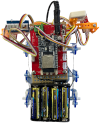
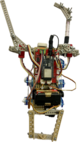
中心点追加

diff --git a/visualizer/takamiya_test.rb b/visualizer/takamiya_test.rb
@@ -27,7 +27,15 @@ class Player
     @x_speed = 0
     @y_speed = 0
     @target = nil
-    @image = Gosu::Image.new("images/kani.png", tileable: false)
+    @image1 = Gosu::Image.new("images/kani.png", tileable: false)
+    @image2 = Gosu::Image.new("images/kani2.png", tileable: false)
+  end
+
+  def center
+    #画像を2枚にしたタイミングでif文つける
+    cx = (@image1.width / 2)
+    cy = (@image1.height / 2)
+    [cx, cy]
   end
 
   def move_to(checkpoint, duration)
@@ -43,9 +51,12 @@ class Player
     @x += @x_speed
     @y += @y_speed
 
+    @cx, @cy = center
+
     # 目的地に到達したかチェック（厳密比較ではなく誤差を許容）
     if (@x - @target[0]).abs < 1 && (@y - @target[1]).abs < 1
       @x, @y = @target
+      @cx, @cy = center
       @x_speed = 0
       @y_speed = 0
       @target = nil
@@ -53,7 +64,7 @@ class Player
   end
 
   def draw
-    @image.draw(@x - 50, @y - 62, 1)
+    @image1.draw(@x - @cx, @y - @cy, 1)
   end
 end
 
